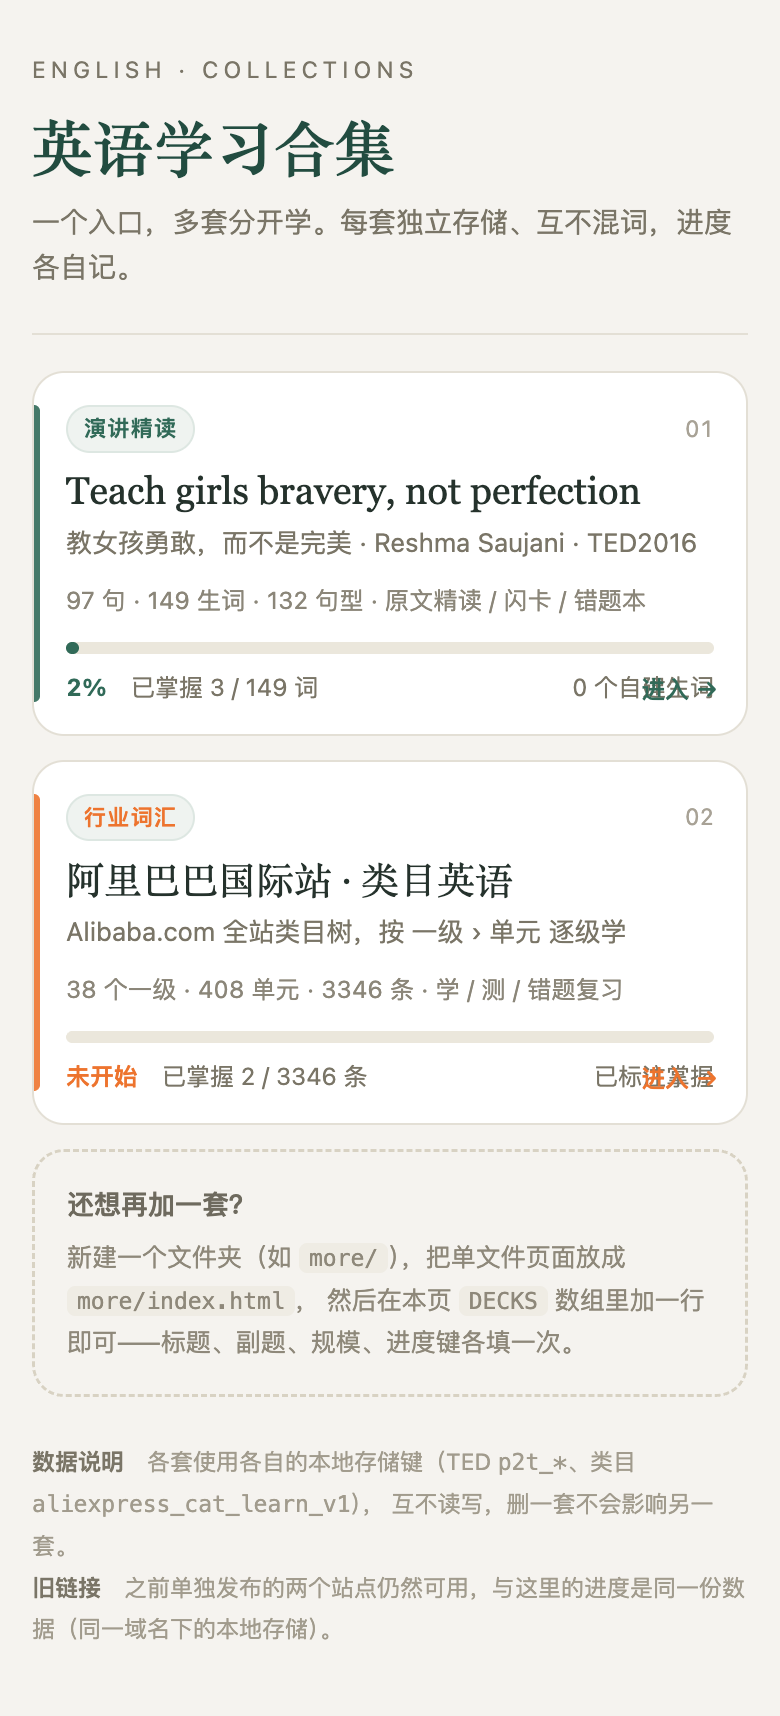
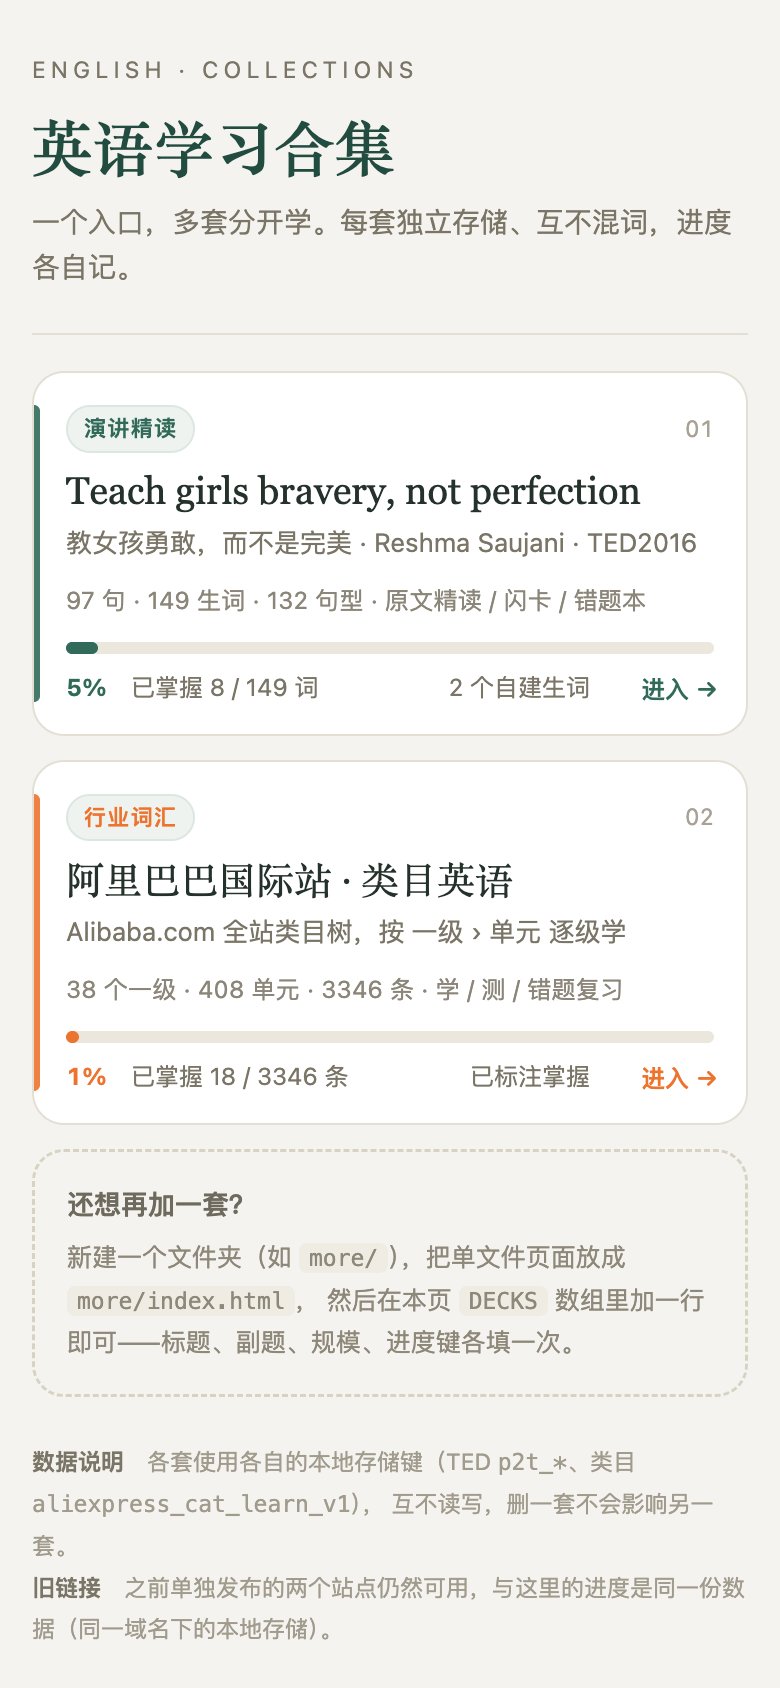
朗读健壮性：优先本地英语语音、缺 en-GB 回退 en-US、cancel 不再吞句、1.2s 看门狗给出具体无声原因提示（两套均已应用）

diff --git a/ted/index.html b/ted/index.html
@@ -393,26 +393,64 @@ var VO=[];
 function loadV(){ try{ VO = speechSynthesis.getVoices()||[] }catch(e){ VO=[] } }
 loadV(); if(window.speechSynthesis){ speechSynthesis.onvoiceschanged = loadV }
 function pick(){
-  var i;
-  for(i=0;i<VO.length;i++){ if(/^en[-_]GB/i.test(VO[i].lang)) return VO[i] }
-  for(i=0;i<VO.length;i++){ if(/^en/i.test(VO[i].lang)) return VO[i] }
-  return null;
+  /* 安卓常见坑：只有非本地的 en 语音，选它会静默失败 → 优先 localService 的语音 */
+  var gb = [], en = [], i, v, loc;
+  for(i=0;i<VO.length;i++){
+    v = VO[i];
+    if(!/^en[-_]/i.test(v.lang || '')) continue;
+    if(/^en[-_]GB/i.test(v.lang)) gb.push(v); else en.push(v);
+  }
+  loc = function(v){ return v.localService !== false };
+  return gb.filter(loc)[0] || gb[0] || en.filter(loc)[0] || en[0] || null;
 }
 /* 当前这条 utterance。链式朗读要靠它判活；取消时先把回调摘掉，
    避免 cancel() 触发的 onerror 把「新开的那一句」误判成失败而停播。 */
 var WS = null;
+/* 朗读自检：安卓「点了没声」多是 无英语语音包 / 引擎未启用 / 浏览器拦截 */
+var TTSH = {};
+function ttsHint(kind){
+  if(TTSH[kind]) return; TTSH[kind] = 1;
+  var m = {
+    unsupported:'这个浏览器不支持朗读，请用 Chrome / Safari / Edge 打开',
+    blocked:'浏览器拦住了朗读，先点一下页面空白处再试',
+    novoice:'手机里没有英语语音包：设置 → 语言和输入法 → 文字转语音 → 安装 English',
+    silent:'点了没出声：先看手机是否静音，再看系统「文字转语音」有没有装英语'
+  }[kind];
+  if(m) tip(m, 4200);
+}
 function say(t, btn, cb){
-  if(!window.speechSynthesis||!t){ if(cb) cb('empty'); return }
-  try{
-    speechSynthesis.cancel();
-    var u = new SpeechSynthesisUtterance(t); u.lang='en-GB'; u.rate=1;
-    var v = pick(); if(v) u.voice = v;
-    WS = u;
-    u.onend = function(){ if(btn) btn.classList.remove('on'); if(WS===u) WS = null; if(cb) cb(null) };
-    u.onerror = function(){ if(btn) btn.classList.remove('on'); if(WS===u) WS = null; if(cb) cb('err') };
-    if(btn) btn.classList.add('on');
-    speechSynthesis.speak(u);
-  }catch(e){ if(btn) btn.classList.remove('on'); if(cb) cb('err') }
+  if(!window.speechSynthesis || !t){
+    if(!window.speechSynthesis) ttsHint('unsupported');
+    if(cb) cb('empty'); return;
+  }
+  var v = pick(), u;
+  try{ u = new SpeechSynthesisUtterance(t) }catch(e){ ttsHint('unsupported'); if(cb) cb('err'); return }
+  /* 没有 en-GB 语音时退回 en-US，再退系统默认；写死 en-GB 在缺该语音的安卓上会直接静音 */
+  u.lang = v ? v.lang : 'en-US';
+  u.rate = 1;
+  if(v) u.voice = v;
+  var started = false, closed = false;
+  function close(kind){ if(closed) return; closed = true; if(btn) btn.classList.remove('on'); if(WS === u) WS = null; if(cb) cb(kind) }
+  u.onstart = function(){ started = true };
+  u.onend = function(){ close(null) };
+  u.onerror = function(ev){
+    var err = ev && ev.error;
+    ttsHint(err === 'not-allowed' ? 'blocked' : (VO.length ? 'silent' : 'novoice'));
+    close('err');
+  };
+  WS = u;
+  if(btn) btn.classList.add('on');
+  function fire(){
+    try{ if(speechSynthesis.paused) speechSynthesis.resume() }catch(e){}
+    try{ speechSynthesis.speak(u) }catch(e){ ttsHint('silent'); close('err'); return }
+    /* 安卓上 speak() 可能既不报错也不发声：1.2s 内没有 onstart 就提示一次 */
+    setTimeout(function(){ if(!started && !closed) ttsHint(VO.length ? 'silent' : 'novoice') }, 1200);
+  }
+  if(speechSynthesis.speaking || speechSynthesis.pending){
+    /* 安卓上 cancel() 紧跟 speak() 会吞掉新句子，隔一拍再发 */
+    try{ speechSynthesis.cancel() }catch(e){}
+    setTimeout(fire, 80);
+  } else fire();
 }
 
 /* ── 我的生词 / 已过 / 闪卡位 ── */
@@ -1296,12 +1334,12 @@ function boot(){
 function LSX(){ return {wrong:'p2t_wrong_v1', mas:'p2t_mas_v1', seen:'p2t_seen_v1', days:'p2t_days_v1'} }
 function shotCfg(){ return {max:25, px:1000, kb:100} }
 
-function tip(msg){
+function tip(msg, ms){
   var el = $('#p2tip');
   if(!el){ el = document.createElement('div'); el.id = 'p2tip'; el.className = 'toast'; document.body.appendChild(el) }
   el.textContent = msg; el.classList.add('on');
   if(tip._t) clearTimeout(tip._t);
-  tip._t = setTimeout(function(){ el.classList.remove('on') }, 2200);
+  tip._t = setTimeout(function(){ el.classList.remove('on') }, ms || 2200);
 }
 function marr(k){ var a = jget(k, []); return (a && a.length !== undefined) ? a : [] }
 /* 存照片要能分辨"存不下"：store() 会吞掉异常，这里自己写严格版 */

diff --git a/alibaba/index.html b/alibaba/index.html
@@ -412,12 +412,12 @@ function totalKnown() {
 }
 function pct(a, b) { return b ? Math.round(a / b * 100) : 0; }
 let toastTimer = null;
-function toast(msg) {
+function toast(msg, ms) {
   const el = $('toast');
   el.textContent = msg;
   el.classList.add('show');
   clearTimeout(toastTimer);
-  toastTimer = setTimeout(() => el.classList.remove('show'), 1600);
+  toastTimer = setTimeout(() => el.classList.remove('show'), ms || 1600);
 }
 const wrongKey = (unitId, en) => unitId + '||' + en;
 function wrongList() {
@@ -431,23 +431,49 @@ function dueWrong() {
 /* ===== 朗读 ===== */
 let voiceEN = null;
 function pickVoice() {
+  /* 优先本地英语语音；非本地语音在部分安卓上会静默失败 */
   const vs = window.speechSynthesis ? speechSynthesis.getVoices() : [];
-  voiceEN = vs.find(v => /en-GB/i.test(v.lang)) || vs.find(v => /^en/i.test(v.lang)) || null;
+  const en = vs.filter(v => /^en[-_]/i.test(v.lang || ''));
+  const gb = en.filter(v => /^en[-_]GB/i.test(v.lang));
+  const loc = v => v.localService !== false;
+  voiceEN = gb.filter(loc)[0] || gb[0] || en.filter(loc)[0] || en[0] || null;
 }
 if (window.speechSynthesis) {
   pickVoice();
   speechSynthesis.onvoiceschanged = pickVoice;
 }
+const TTSH = {};
+function ttsHint(kind) {
+  if (TTSH[kind]) return; TTSH[kind] = 1;
+  const m = {
+    unsupported: '这个浏览器不支持朗读，请用 Chrome / Safari / Edge 打开',
+    blocked: '浏览器拦住了朗读，先点一下页面空白处再试',
+    novoice: '手机里没有英语语音包：设置 → 语言和输入法 → 文字转语音 → 安装 English',
+    silent: '点了没出声：先看手机是否静音，再看系统「文字转语音」有没有装英语'
+  }[kind];
+  if (m) toast(m, 4200);
+}
 function speak(text) {
   if (!S.settings.tts || !window.speechSynthesis) return;
-  try {
-    speechSynthesis.cancel();
-    const u = new SpeechSynthesisUtterance(text);
-    u.lang = 'en-GB';
-    if (voiceEN) u.voice = voiceEN;
-    u.rate = 0.92;
-    speechSynthesis.speak(u);
-  } catch (e) {}
+  let u;
+  try { u = new SpeechSynthesisUtterance(text); } catch (e) { ttsHint('unsupported'); return; }
+  /* 缺 en-GB 语音时退回系统默认，避免指定到不存在的语音导致静音 */
+  u.lang = voiceEN ? voiceEN.lang : 'en-US';
+  if (voiceEN) u.voice = voiceEN;
+  u.rate = 0.92;
+  let started = false;
+  u.onstart = () => { started = true; };
+  u.onerror = ev => ttsHint((ev && ev.error) === 'not-allowed' ? 'blocked' : (voiceEN ? 'silent' : 'novoice'));
+  const fire = () => {
+    try { if (speechSynthesis.paused) speechSynthesis.resume(); } catch (e) {}
+    try { speechSynthesis.speak(u); } catch (e) { ttsHint('silent'); return; }
+    /* 安卓上可能既不报错也不发声：1.2s 无 onstart 就提示一次 */
+    setTimeout(() => { if (!started) ttsHint(voiceEN ? 'silent' : 'novoice'); }, 1200);
+  };
+  if (speechSynthesis.speaking || speechSynthesis.pending) {
+    try { speechSynthesis.cancel(); } catch (e) {}
+    setTimeout(fire, 80);
+  } else fire();
 }
 
 /* ===== 顶栏 ===== */
